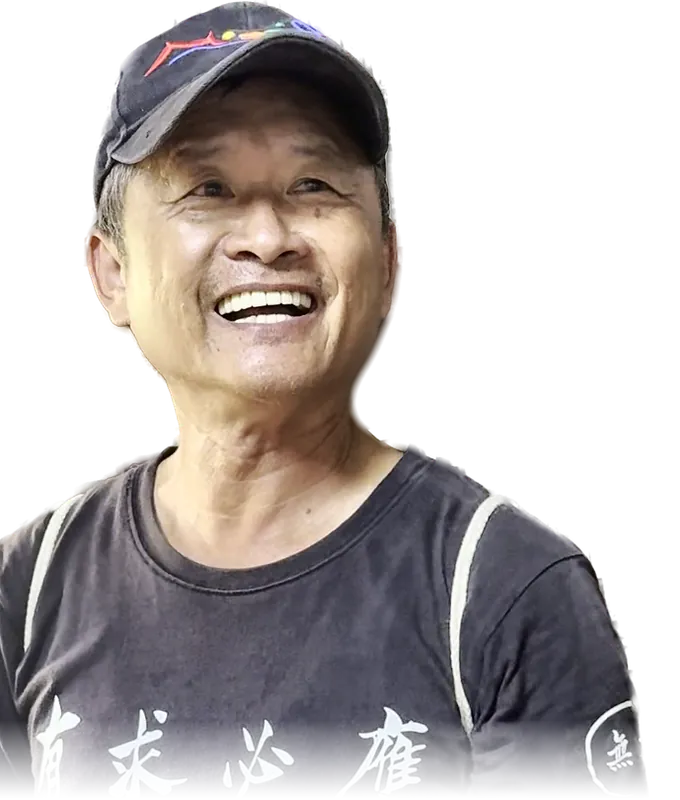
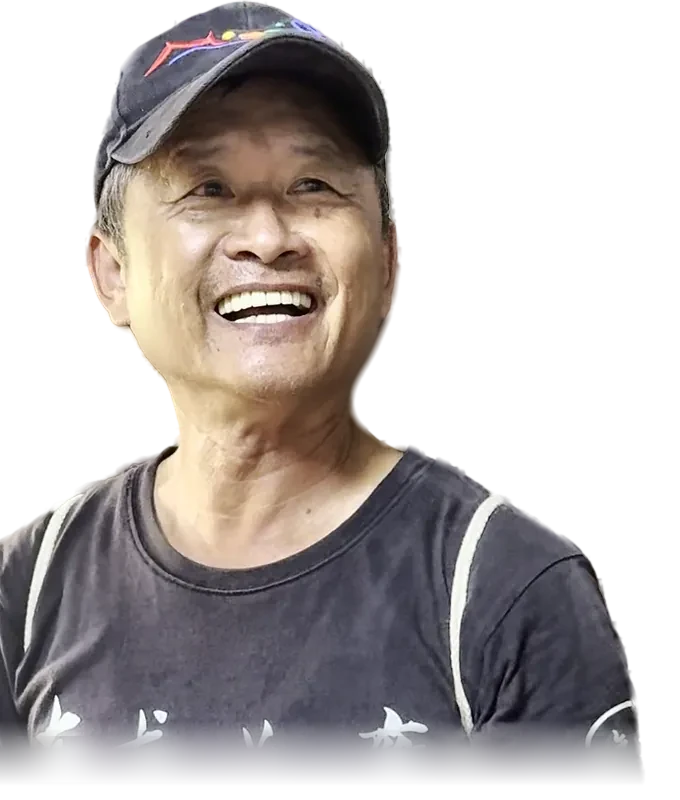
志永哥照片去背精修；新增「講解」與「比 YA」兩個動作
- 7 張動作照精修：擦掉背景殘影、肩帶黃色夾子、耳邊細線、帆布袋，修好帽頂與腋下的方形硬邊，邊緣去白邊；intro 下緣淡出
- 新增 explain（雙手比劃講解，用在 7 句講歷史、說故事的台詞）與 yeah（比 YA，蓋章、集滿印章後的地圖、完成卡）
- explain 照片往左移，避免雙手被對話框擋住
- 新圖加進離線快取，sw.js 版本 v45

diff --git a/js/data.js b/js/data.js
@@ -30,6 +30,8 @@ window.TOUR = {
         think: "assets/img/guide-real-think.webp",
         happy: "assets/img/guide-real-happy.webp",
         fruit: "assets/img/guide-real-fruit.webp",
+        explain: "assets/img/guide-real-explain.webp", // 雙手比劃講解（2026-11-13 訪談照）：講歷史、說故事
+        yeah: "assets/img/guide-real-yeah.webp",       // 比 YA（2026-11-13 活動中心合照，只裁志永哥）：蓋章、集滿印章、完成卡
       },
       // 原本的白 T 照片（只有一張）
       realWhite: {
@@ -389,7 +391,7 @@ window.TOUR = {
           done: "廟後面還有一片山，叫作「屋背山」。泰興宮就是背靠著山、面向大甲溪。" },
         { image: "assets/img/plaza-scroll.svg", focus: 17,
           say: "這座廟不只是一座廟，整個庄頭都是從這裡規劃出去的。我們飛到天上，看看兩百年前的大茅埔！" },
-        { say: "道光二年（1822），張寧壽帶著二十八股的夥伴來這裡開墾。那時候，這裡是一大片茅草荒埔。" },
+        { pose: "explain", say: "道光二年（1822），張寧壽帶著二十八股的夥伴來這裡開墾。那時候，這裡是一大片茅草荒埔。" },
         { type: "choice", pose: "think",
           say: "考考你：這裡叫「大茅埔」，可是庄裡的老一輩用客家話會怎麼念？",
           options: ["大茅埔", "大林埔", "大平埔"], answer: 1,
@@ -458,7 +460,7 @@ window.TOUR = {
           choices: ["weichi", "qin"], answer: "weichi",
           wrong: "嘿，這位臉比較白、留長鬍子，再找找另一位！",
           right: "答對了！黑臉的就是尉遲恭，白臉長鬍子的是秦叔寶。" },
-        { pose: "default",
+        { pose: "explain",
           say: "傳說唐太宗晚上被惡鬼吵得睡不好，就請這兩位將軍站在宮門口守夜。後來民間就把他們畫在門上保平安。" },
         { type: "explore", pose: "point",
           say: "畫裡還藏了很多細節！把畫面左右滑一滑，發光的地方都點開看看。" },
@@ -620,12 +622,12 @@ window.TOUR = {
           options: ["初一", "十五", "二十五"], answer: 2,
           wrong: "再想想看，剛剛卡片上的日期都長得很像喔！",
           right: "沒錯，都是二十五！很好記吧？" },
-        { say: "傳說三位是結拜兄弟，一起平定亂事，之後隱居三山。皇帝敬佩他們，封為「三山國王」。" },
+        { pose: "explain", say: "傳說三位是結拜兄弟，一起平定亂事，之後隱居三山。皇帝敬佩他們，封為「三山國王」。" },
         { focus: 54,
           say: "後來客家先民渡海來臺灣開墾，王爺公的香火也跟著過來了。" },
         { focus: 84,
           say: "開庄的張寧壽，從彰化溪湖荷婆崙的霖肇宮請來三山國王的令旗，先供在自己家裡，保佑大家開墾順利。" },
-        { say: "開墾有成，大家一起出錢蓋廟，咸豐六年（1856）完工，那時候屋頂還是茅草蓋的呢！" },
+        { pose: "explain", say: "開墾有成，大家一起出錢蓋廟，咸豐六年（1856）完工，那時候屋頂還是茅草蓋的呢！" },
         { type: "explore", pose: "point", targets: ["boat", "hut"],
           say: "畫裡的船和小廟也點開看看！" },
         { type: "choice", pose: "think",
@@ -642,7 +644,7 @@ window.TOUR = {
           say: "故事聽完了，走到神龕正前方。到現場記得也抬頭看看樑上的木雕！" },
         { type: "lookup",
           say: "現在抬頭看看正殿裡的三位王爺，比一比他們的臉色和鬍子，有什麼不一樣？" },
-        { say: "民國 88 年 921 大地震，庄裡的老屋全倒了，廟卻安然無恙，庄民都說是王爺公在保佑。" },
+        { pose: "explain", say: "民國 88 年 921 大地震，庄裡的老屋全倒了，廟卻安然無恙，庄民都說是王爺公在保佑。" },
         { pose: "happy",
           say: "認識王爺公了，來蓋個章！" },
       ],
@@ -791,7 +793,7 @@ window.TOUR = {
           done: "客家人蓋房子，會在屋後堆一個「化胎」，把後山的龍脈引進來。大茅埔把龍神安座在泰興宮殿後的化胎上，再種一棵枝葉茂盛的榕樹。" },
         { image: "assets/photos/qushui.webp", focus: 50, pose: "default",
           say: "說到山和水，大茅埔還有一個老習俗，叫作「取水」。" },
-        { say: "以前庄裡有瘟疫，或是牲畜、作物出狀況，就會在神明帶領下到大甲溪取「平安水」，帶回廟埕讓大家沐浴、飲用，祈求平安。" },
+        { pose: "explain", say: "以前庄裡有瘟疫，或是牲畜、作物出狀況，就會在神明帶領下到大甲溪取「平安水」，帶回廟埕讓大家沐浴、飲用，祈求平安。" },
         { type: "choice", pose: "think",
           say: "考考你：「平安水」是從哪裡取來的？",
           options: ["大甲溪", "廟裡的井", "山上的瀑布"], answer: 0,
@@ -799,7 +801,7 @@ window.TOUR = {
           right: "答對！就是大甲溪。這個習俗停了將近六十年，2020 年新冠疫情的時候，庄裡的耆老和居民又把它找了回來。" },
         { image: "assets/photos/shanshui-ji.webp", focus: 50, pose: "default",
           say: "龍神信仰原本慢慢被大家淡忘。2020 年起，泰興宮和大茅埔調查團辦起「龍神山水祭」，到 2026 年已經是第 7 屆。" },
-        { say: "祭典在每年秋天，正好是客庄「收冬」的時候，感謝王爺公和龍神帶來豐收。大家跟著王爺公巡庄，經過將寮和伯公廟，繞山也繞水。" },
+        { pose: "explain", say: "祭典在每年秋天，正好是客庄「收冬」的時候，感謝王爺公和龍神帶來豐收。大家跟著王爺公巡庄，經過將寮和伯公廟，繞山也繞水。" },
         { say: "傍晚最熱鬧：大家用五種顏色的紙摺小船，放進水圳，讓心願順著水流走。" },
         { type: "choice", pose: "think",
           say: "考考你：紙船的船底塗了什麼，才不會一下子就沉下去？",

diff --git a/js/app.js b/js/app.js
@@ -196,6 +196,7 @@
     const got = ready.filter((s) => done.has(s.id)).length;
     $("mapStamps").textContent = got === ready.length ? "🏅 完成卡" : `印章 ${got} / ${ready.length} ›`;
     $("mapStamps").classList.toggle("complete", got === ready.length);
+    swapImg($("mapGuideImg"), T.guide.poses[got === ready.length ? "yeah" : "default"] || T.guide.poses.default);
     typeText($("mapLine"), fill(got === ready.length && T.map.doneSay ? T.map.doneSay : T.map.say), $("mapGuideImg"));
     $("mapWrap").querySelectorAll(".pin, .route").forEach((p) => p.remove());
     // 建議路線：依站號連起來，兩端都走過的段落變紅色
@@ -735,6 +736,7 @@
     $("toMapBtn").className = complete ? "btn ghost" : "btn primary";
     $("toMapBtn").textContent = complete ? "回到地圖" : "回到地圖，選下一站";
     $("stampLayer").hidden = false;
+    setPose("yeah");
     const st = $("stamp");
     st.classList.remove("stamped"); void st.offsetWidth; st.classList.add("stamped");
     if (!reduceMotion) {
@@ -1315,7 +1317,7 @@
         document.fonts.load(`500 30px "Noto Sans TC"`, allText),
       ]);
     } catch {}
-    const guide = await loadImg(T.guide.poses[complete ? "happy" : "default"] || T.guide.poses.default);
+    const guide = await loadImg(T.guide.poses[complete ? "yeah" : "default"] || T.guide.poses.default);
     if (token !== card.token) return;
 
     const c = document.createElement("canvas"); c.width = CW; c.height = CH;

diff --git a/sw.js b/sw.js
@@ -1,6 +1,6 @@
 // TempleGo 離線快取
 // ⚠ 新增或改名圖片時：把路徑加進 PRECACHE，並把 VERSION 加 1，遊客手機才會更新快取
-const VERSION = "v44";
+const VERSION = "v45";
 const CACHE = `templego-${VERSION}`;
 const FONT_CACHE = "templego-fonts";
 
@@ -18,6 +18,8 @@ const PRECACHE = [
   "assets/img/guide-real-think.webp",
   "assets/img/guide-real-happy.webp",
   "assets/img/guide-real-fruit.webp",
+  "assets/img/guide-real-explain.webp",
+  "assets/img/guide-real-yeah.webp",
   "assets/img/guide-q-default.svg",
   "assets/img/guide-q-wave.svg",
   "assets/img/guide-q-point.svg",

diff --git a/css/style.css b/css/style.css
@@ -343,6 +343,8 @@ h1 {
   transform-origin: bottom center;
   filter: drop-shadow(0 6px 14px rgba(0,0,0,.5));
 }
+/* 講解的照片手在右邊，往左移一點，免得手被對話框擋住 */
+.guide[src*="guide-real-explain"] { left: -14%; }
 /* 志永哥：待機呼吸（scale）與說話擺動、跳起來（transform）分開，可以同時進行 */
 .guide { animation: breathe 4.2s ease-in-out infinite; transition: opacity .16s ease, translate .22s ease; }
 .guide.talking { animation: breathe 4.2s ease-in-out infinite, talk .82s ease-in-out infinite; }

diff --git a/README.md b/README.md
@@ -134,7 +134,7 @@ assets/
 
 | 欄位 | 用途 |
 |---|---|
-| `pose` | 志永哥的動作：`default`、`wave`、`point`、`think`、`happy`、`fruit` |
+| `pose` | 志永哥的動作：`default`、`wave`、`point`、`think`、`happy`、`fruit`、`explain`（雙手比劃講解，用在講歷史、說故事）、`yeah`（比 YA，蓋章、集滿印章、完成卡會自動用） |
 | `image` | 換成另一張照片或插畫 |
 | `scene: "pano"` | 切到環景；可再加 `pano`、`panoView` 指定另一張環景 |
 | `focus` | 照片：捲到寬度的幾 %（例如 `50`）；環景：`{ yaw, pitch }` |
